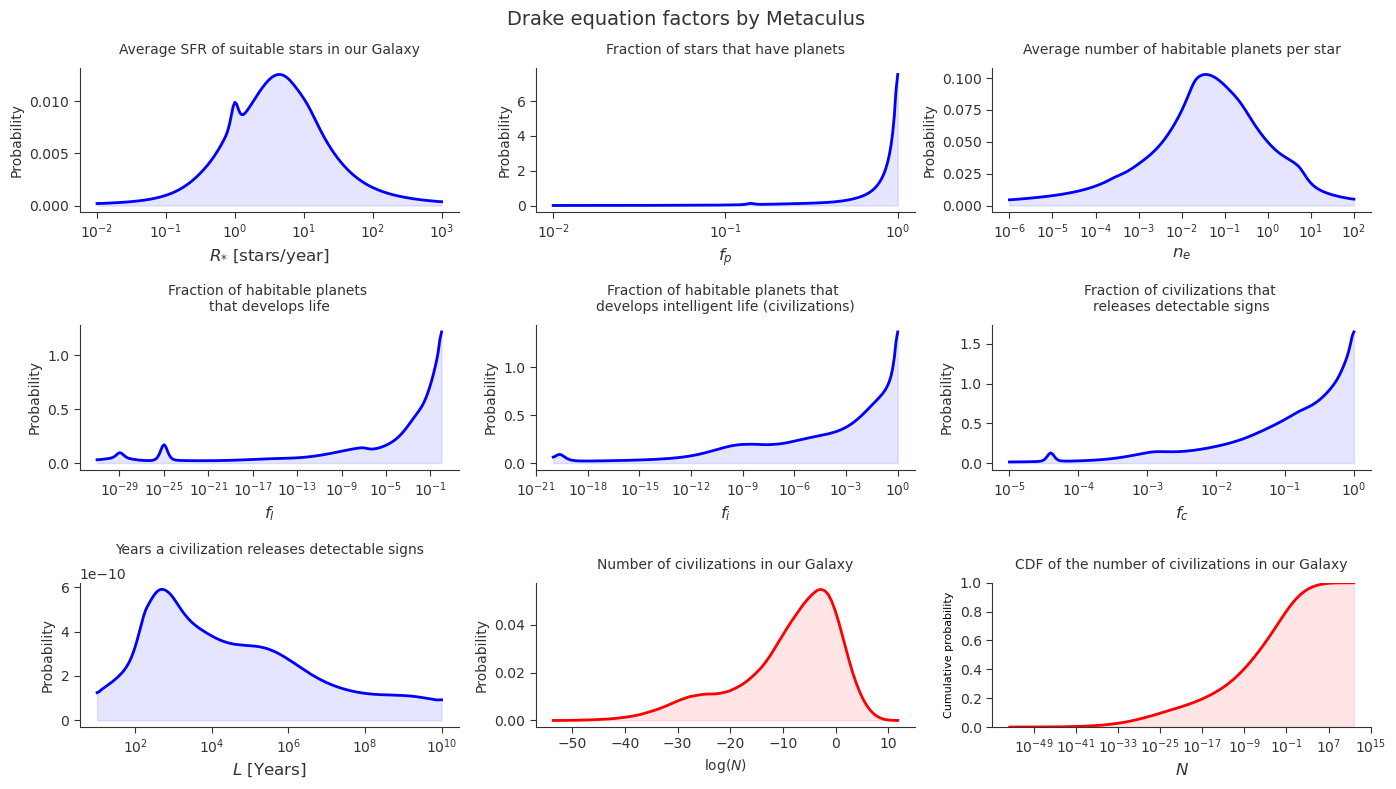
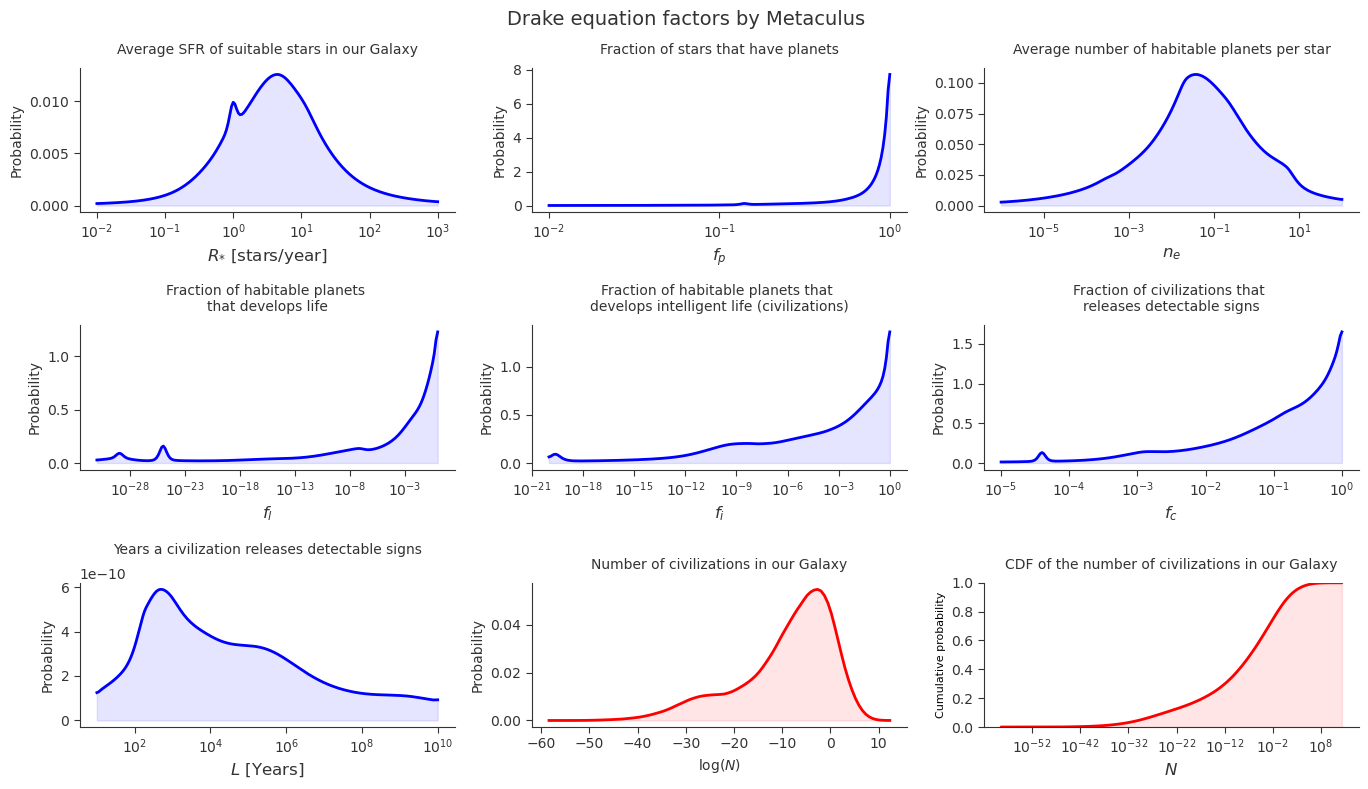
Improved documentation
Improved function documentation and type annotation. Also updated the data.

diff --git a/Drake_Metaculus.py b/Drake_Metaculus.py
@@ -1,18 +1,34 @@
+"""
+This script fetches data from the Metaculus API, processes it to obtain CDF and PDF data,
+and provides functions to visualize the data using histograms and lineplots.
+
+Modules:
+    - numpy
+    - pandas
+    - matplotlib
+    - scipy
+    - statsmodels
+    - requests
+    - typing
+"""
+#-------------------------------------------------------------------------------------------
+#-------------------------------------------------------------------------------------------
 import numpy as np
 import pandas as pd
 import matplotlib.pyplot as plt
+import matplotlib.axes
 from scipy.integrate import simpson
 from scipy import interpolate as inter
 from scipy.stats import gaussian_kde
-from scipy import stats
 from scipy import interpolate
 from statsmodels.distributions.empirical_distribution import ECDF
 import requests
-#-------------------------------------------------------------------------------------------
+from typing import Dict, Union
+
 #-------------------------------------------------------------------------------------------
 print("Hello. Starting!")
 
-# URLs of the CSV data from the API
+# URLs of the API data
 url_Rs = "https://www.metaculus.com/api2/questions/1337"
 url_fp = "https://www.metaculus.com/api2/questions/1338"
 url_ne = "https://www.metaculus.com/api2/questions/1339"
@@ -23,9 +39,25 @@ url_L  = "https://www.metaculus.com/api2/questions/1343"
 
 #-------------------------------------------------------------------------------------------
 #-------------------------------------------------------------------------------------------
-# function to read, format, reduce, and transform data in the API JSON file
-def data_parser(url, xmin, xmax, q = 1000):
+def data_parser(url: str, 
+                xmin: float, 
+                xmax: float, 
+                q: int = 1000) -> tuple[Dict[float, float], Dict[float, float]]:
+     """
+     Parses (read, format, reduce, and transform) data from a given Metaculus 
+     API URL JSON file and processes it to obtain CDF and PDF data.
 
+     Args:
+          url (str): The URL of the Metaculus API question.
+          xmin (float): The minimum value for the x-axis.
+          xmax (float): The maximum value for the x-axis.
+          q (int): The number of points sampled. Default is 1000.
+
+     Returns:
+          tuple of dictionaries:
+          cdf_f (float, float): A dictionary containing the CDF data.
+          df_pdf (float, float): A dictionary containing the PDF data.
+     """
      #--------------------------------------------
      # Read the data
      # Make a GET request to the URL
@@ -76,36 +108,35 @@ def data_parser(url, xmin, xmax, q = 1000):
      df_pdf["PDF"] = df_pdf["PDF"].astype("float")
 
      #--------------------------------------------
-     # Adjusting the CDF to start at 0
+     # Adjust the CDF to start at 0
      df_cdf['CDF'] -= df_cdf['CDF'].min()
-     # Normalizing the CDF to end at 1
+     # Normalize the CDF to end at 1
      df_cdf['CDF'] /= df_cdf['CDF'].max()
 
      # Random number generator
      uniform_samples = np.random.uniform(0, 1, q)
 
-     # Transforming x range from 0-1 to the real xmin-xmax
+     # Transform x range from 0-1 to the real xmin-xmax
      xmin_log = np.log10(xmin)
      xmax_log = np.log10(xmax)
 
      df_cdf["x_log"] = pd.DataFrame(df_cdf["x_norm"]).apply(lambda x : (xmin_log + x * (xmax_log - xmin_log)))
      df_pdf["x_log"] = pd.DataFrame(df_pdf["x_norm"]).apply(lambda x : 10**(xmin_log + x * (xmax_log - xmin_log)))
 
-     # Calculating the area under the curve
+     # Calculate the area under the curve
      total_area = simpson(y = df_pdf["PDF"], x = df_pdf["x_log"])
-     # Normalizing the PDF values so that the sum equals 1
+     # Normalize the PDF values so that the sum equals 1
      df_pdf['PDF'] = df_pdf["PDF"] / total_area
      #df_pdf['PDF'] = df_pdf["PDF"] / df_pdf["PDF"].sum()
      
      # Inverse interpolation
      inverse_cdf = inter.CubicSpline(df_cdf["CDF"], df_cdf["x_log"])
 
-     # Sampling
+     # Sample
      sampled_normalized = inverse_cdf(uniform_samples)
 
      #---------------------------------------------
-     # Filling cdf_f dataframe to be returned
-          # dataframe for later use
+     # Fill in the cdf_f dataframe to be returned
      cdf_f = pd.DataFrame()
      cdf_f["x_log"] = pd.DataFrame(sampled_normalized).apply(lambda x : 10**x )
      cdf_f["cdf_values"] = pd.DataFrame(uniform_samples)
@@ -114,8 +145,8 @@ def data_parser(url, xmin, xmax, q = 1000):
 
 #-------------------------------------------------------------------------------------------
 #-------------------------------------------------------------------------------------------
-# Running the function
-print("Reading and reducing data...")
+# Run the function
+print("Reading and reducing the data...")
 
 quantity = 10**6 # quantity of data in the simulation
 
@@ -136,7 +167,7 @@ print("  L done.")
 
 #-------------------------------------------------------------------------------------------
 #-------------------------------------------------------------------------------------------
-# Multiplying the factors to find the N's
+# Multiply the factors to find the N's
 print("Multiplying the factors...")
 
 Ns = (df_Rs_cdf["x_log"] * 
@@ -149,7 +180,7 @@ Ns = (df_Rs_cdf["x_log"] *
 
 #-------------------------------------------------------------------------------------------
 #-------------------------------------------------------------------------------------------
-# Making the figures
+# Make the figures
 print("Making the figures...")
 #-------------------------------------------------------------------------------------------
 # HISTOGRAMS
@@ -159,12 +190,34 @@ print("  Making the histograms...")
 nbins = 1000
 # Custom dark gray color between dimgray and black
 custom_dark_gray = (0.2, 0.2, 0.2)
+
 #---------------------------------------
-# Function to make the histograms sub figures
-def histogram(ax, df_f, color, edgecolor, label, xlabel, title, q, nbins):
+def histogram(ax: matplotlib.axes.Axes, 
+              df_f: Union[np.ndarray, pd.Series], 
+              color: str, 
+              edgecolor: str, 
+              label: str, 
+              xlabel: str, 
+              title: str, 
+              q: int, 
+              nbins: int) -> None:
+     """
+     Creates a Matplotlib histogram subfigure.
+
+     Args:
+          ax (matplotlib.axes.Axes): The axes on which to plot the histogram.
+          df_f (array-like): Column in the pandas dataframe to be plotted in the histogram.
+          color (str): The color of the histogram bars.
+          edgecolor (str): The color of the edges of the histogram bars.
+          label (str): The label for the histogram.
+          xlabel (str): The label for the x-axis.
+          title (str): The title of the histogram.
+          q (int): The quantity of data in the simulation for the normalization weights.
+          nbins (int): The number of bins for the histogram.
+     """
 
      log_space_bins = np.logspace(np.log10(min(df_f)), np.log10(max(df_f)), nbins)
-     # I am just using the frequency per bin, it is not a normalization
+     # It is just the frequency per bin, it is not a normalization
      weights = np.zeros_like(df_f) + 1./q
 
      ax.hist(df_f,
@@ -198,7 +251,7 @@ def histogram(ax, df_f, color, edgecolor, label, xlabel, title, q, nbins):
      ax.tick_params(axis = 'both', colors = custom_dark_gray)
 
 #--------------------------------------------------------------------------------------------
-# Creating a figure object with size 14x8 inches and 9 subfigs
+# Create a figure object with size 14x8 inches and 9 subfigs
 fig1, axes = plt.subplots(nrows = 3,
                           ncols = 3,
                           figsize = (14, 8))
@@ -344,7 +397,7 @@ ecdft = ECDF(Ns)
 ax9.fill_between(log_space_bins, ecdft(log_space_bins), color = "red", alpha = 0.1)
                  
 #-------------------------------------------------------------------------------------------
-# Adjusting the vertical and horizontal spacing, so there are no overlapings
+# Adjust the vertical and horizontal spacing, so there are no overlapings
 plt.tight_layout()
 
 plt.savefig("Drake by Metaculus histos.png", bbox_inches = "tight")
@@ -353,9 +406,26 @@ plt.savefig("Drake by Metaculus histos.png", bbox_inches = "tight")
 #-------------------------------------------------------------------------------------------
 # PLOTS
 print("  Making the plots...")
+
 #---------------------------------------
-# Function to make the plot sub figures
-def plot(ax, df_f, color, label, xlabel, title):
+def plot(ax: matplotlib.axes.Axes, 
+         df_f: Union[np.ndarray, pd.Series],
+         color: str, 
+         label: str, 
+         xlabel: str, 
+         title: str) -> None:
+     """
+     Creates a Matplotlib lineplot subfigure.
+
+     Args:
+          ax (matplotlib.axes.Axes): The axes on which to plot the lineplot.
+          df_f (array-like): Column in the pandas dataframe to be plotted in the lineplot.
+          color (str): The color of the lines.
+          label (str): The label for the lineplot.
+          xlabel (str): The label for the x-axis.
+          title (str): The title of the lineplot.
+     """
+
      ax.plot(df_f['x_log'],
              df_f['PDF'],
              color = color,
@@ -450,7 +520,7 @@ plot(ax = ax7,
 # N PDF
 print('  Making the "smooth plot"...')
 
-# Estimating the PDF in log space, because it is not working well in linear
+# Estimate the PDF in log space, because it is not working well in linear
 log_data = np.log10(Ns)
 N_density = gaussian_kde(log_data)
 x = np.linspace(min(log_data), max(log_data), 100)
@@ -519,7 +589,7 @@ ax9.tick_params(axis = 'both', colors = custom_dark_gray)
 ax9.fill_between(log_space_bins, ecdft(log_space_bins), color = "red", alpha = 0.1)
 
 #-------------------------------------------------------------------------------------------
-# Adjusting the vertical and horizontal spacing, so there are no overlapings
+# Adjust the vertical and horizontal spacing, so there are no overlapings
 plt.tight_layout()
 
 plt.savefig("Drake by Metaculus PDFs.png", bbox_inches = "tight")
@@ -529,7 +599,7 @@ plt.savefig("Drake by Metaculus PDFs.png", bbox_inches = "tight")
 # Double plot figure
 print("  Making the double plot...")
 
-# Creating a figure object with size 6x8 inches and 2 subfigs
+# Create a figure object with size 6x8 inches and 2 subfigs
 fig3, axes = plt.subplots(nrows = 2,
                           ncols = 1,
                           figsize = (6, 8))
@@ -547,8 +617,8 @@ log_bin_widths = np.diff(log_space_bins_edges)
 total_observations = counts.sum()
 N_density = counts / total_observations
 
-# Interpolating on the data from the histogram
-# Using the middle of the bins, not the edges
+# Interpolate on the data from the histogram
+# Use the middle of the bins, not the edges
 log_space_bins_midpoints = (log_space_bins_edges[:-1] + log_space_bins_edges[1:]) / 2
 log_of_bins_midpoints = np.log10(log_space_bins_midpoints)
 interpolation = inter.UnivariateSpline(log_of_bins_midpoints, N_density, s = 1./(quantity))
@@ -599,7 +669,7 @@ ax1.fill_between(points,
                  linewidth = 0.0,
                  zorder = 1)
 
-# Adding text with info of probability of being alone in the galaxy
+# Text with info of probability of being alone in the galaxy
 # {:.0f} formats the number to have 0 places after the decimal, effectively making it an integer
 probability_not_alone_MW = (ecdft(10**12) - ecdft(1))*100
 formatted_probability = f"{probability_not_alone_MW:.0f}%"
@@ -626,7 +696,7 @@ ax1.vlines(x = 1,
            linewidth = 1.5, 
            zorder = 3)
 
-# Adding text with info of probability of being alone in the galaxy
+# Text with info of probability of being alone in the galaxy
 # {:.0f} formats the number to have 0 places after the decimal, effectively making it an integer
 probability_alone_MW = ecdft(1)*100
 formatted_probability = f"{probability_alone_MW:.0f}%"
@@ -653,7 +723,7 @@ ax1.vlines(x = 5*10**-13,
            linewidth = 1.5, 
            zorder = 4)
 
-# Adding text with info of probability of being alone in the observable Universe
+# Text with info of probability of being alone in the observable Universe
 # {:.0f} formats the number to have 0 places after the decimal, effectively making it an integer
 probability_alone_OU = ecdft(5*10**-13)*100
 formatted_probability = f"{probability_alone_OU:.0f}%"
@@ -704,7 +774,7 @@ ax2.vlines(x = 1,
            linewidth = 1.5, 
            zorder = 3)
 
-# Adding text with info of probability of being alone in the galaxy
+# Text with info of probability of being alone in the galaxy
 # {:.0f} formats the number to have 0 places after the decimal, effectively making it an integer
 probability_alone_MW = ecdft(1)*100
 formatted_probability = f"{probability_alone_MW:.0f}%"
@@ -721,7 +791,7 @@ ax2.vlines(x = 5*10**-13,
            linewidth = 1.5, 
            zorder = 4)
 
-# Adding text with info of probability of being alone in the observable Universe
+# Text with info of probability of being alone in the observable Universe
 # {:.0f} formats the number to have 0 places after the decimal, effectively making it an integer
 probability_alone_OU = ecdft(5*10**-13)*100
 formatted_probability = f"{probability_alone_OU:.0f}%"
@@ -729,7 +799,7 @@ text = "Probability of being alone \nin the observable Universe: \n($N < 5 \\tim
 ax2.text(10**-40, 0.24, text, fontsize = 8, color = custom_dark_gray)
 
 #-------------------------------------------------------------------------------------------
-# Adjusting the vertical and horizontal spacing, so there are no overlapings
+# Adjust the vertical and horizontal spacing, so there are no overlapings
 plt.tight_layout()
 
 plt.savefig("Drake by Metaculus PDF and CDF.png", bbox_inches = "tight")
@@ -739,5 +809,5 @@ plt.savefig("Drake by Metaculus PDF and CDF.png", bbox_inches = "tight")
 print("All done!")
 
 #-------------------------------------------
-# Calling plt.show() to make the graphics appear.
+# Call plt.show() to make the graphics appear.
 plt.show()
